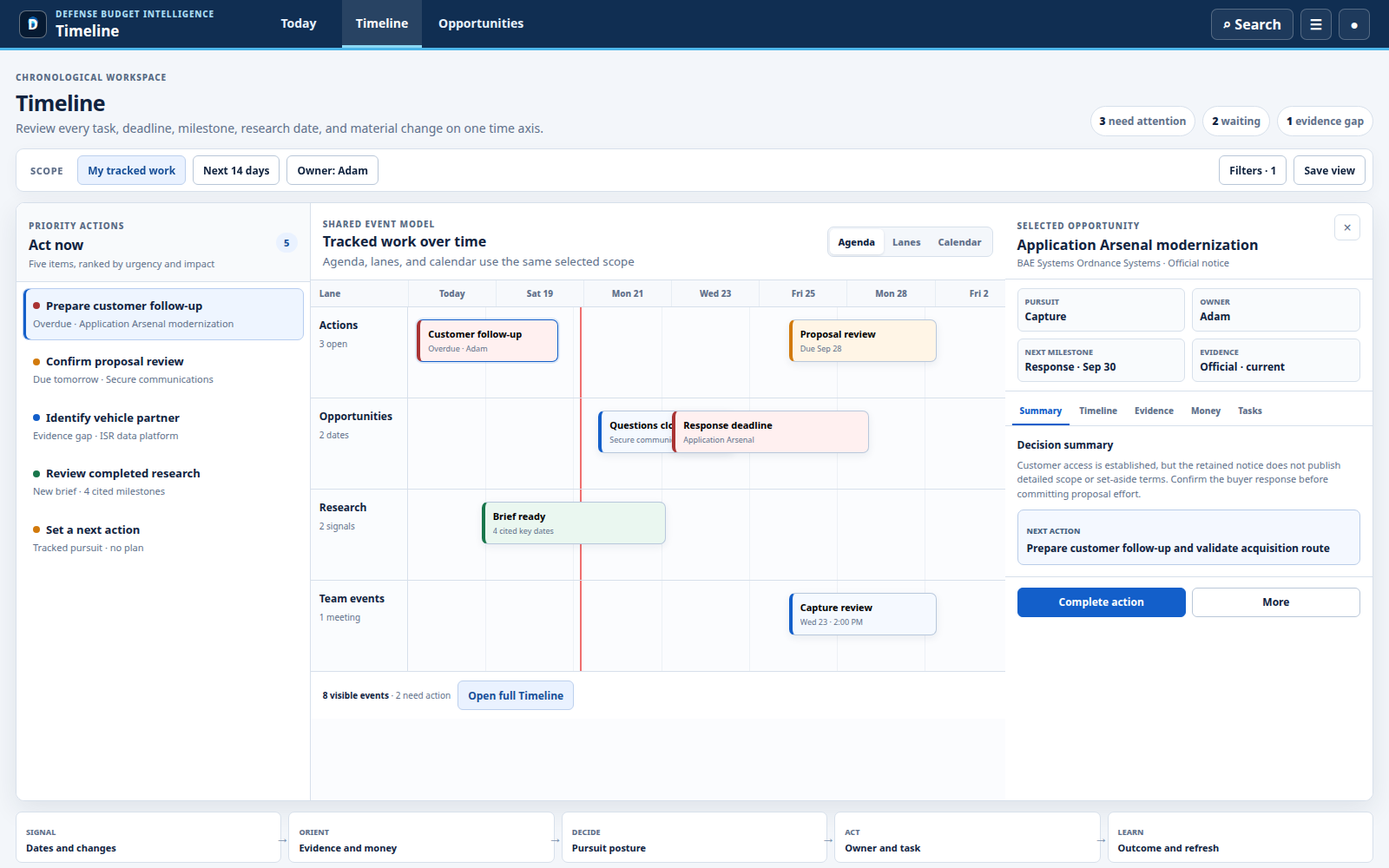
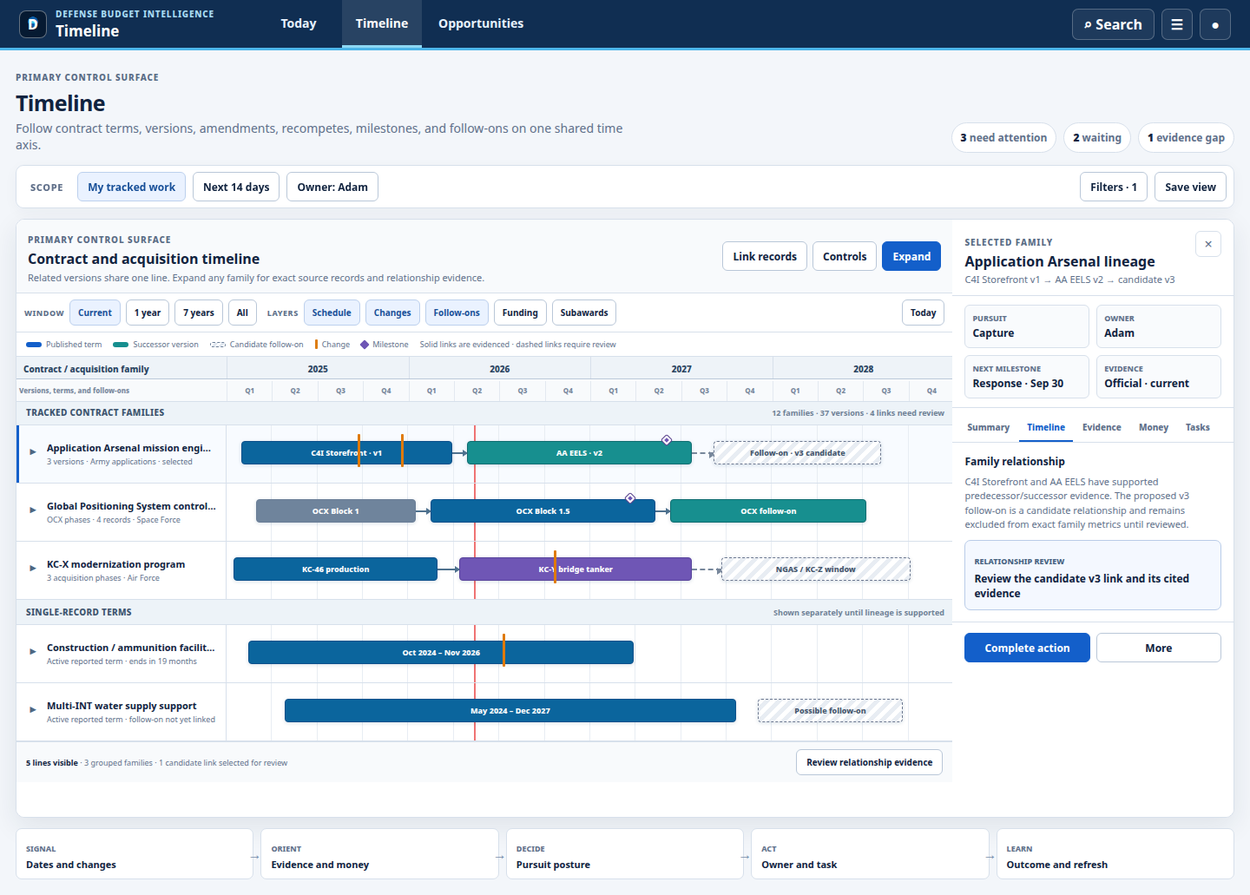
docs: make family timeline the primary control surface

diff --git a/docs/design/interaction-architecture-v2-prototype.html b/docs/design/interaction-architecture-v2-prototype.html
@@ -22,6 +22,8 @@
       --red-soft: #fff0f0;
       --green: #18764b;
       --green-soft: #eaf7f0;
+      --teal: #178f8f;
+      --purple: #6f56b5;
       --shadow: 0 10px 30px rgba(22, 42, 70, .09);
       font-family: Inter, ui-sans-serif, system-ui, -apple-system, BlinkMacSystemFont, "Segoe UI", sans-serif;
       color: var(--ink);
@@ -133,6 +135,62 @@
     .dock-actions .control { flex: 1; }
     .timeline-footer { padding: 10px 14px; display: flex; align-items: center; gap: 8px; color: var(--muted); background: white; font-size: 10px; }
     .timeline-footer strong { color: var(--ink); }
+    .family-timeline { display: none; min-width: 0; background: white; }
+    body.screen-timeline .layout { grid-template-columns: minmax(0, 1fr) minmax(310px, .3fr); }
+    body.screen-timeline .column, body.screen-timeline .timeline, body.screen-timeline .queue { display: none; }
+    body.screen-timeline .family-timeline { display: block; }
+    .family-head { min-height: 62px; padding: 10px 13px; display: flex; align-items: center; gap: 11px; border-bottom: 1px solid var(--line); background: #f8fafc; }
+    .family-head h2 { margin: 2px 0 0; font-size: 16px; }
+    .family-head p { margin: 3px 0 0; color: var(--muted); font-size: 11px; }
+    .family-head__actions { margin-left: auto; display: flex; gap: 6px; }
+    .family-controls { padding: 7px 9px; display: flex; align-items: center; gap: 6px; border-bottom: 1px solid var(--line); overflow-x: auto; background: white; }
+    .family-controls__label { margin-left: 6px; color: var(--muted); font-size: 9px; font-weight: 850; letter-spacing: .06em; text-transform: uppercase; }
+    .family-controls__label:first-child { margin-left: 0; }
+    .family-controls .control { min-height: 30px; padding: 0 9px; font-size: 10px; white-space: nowrap; }
+    .family-legend { padding: 7px 11px; display: flex; align-items: center; gap: 13px; border-bottom: 1px solid var(--line); color: var(--muted); font-size: 9px; overflow-x: auto; white-space: nowrap; }
+    .legend-key { display: inline-flex; align-items: center; gap: 5px; }
+    .legend-swatch { width: 18px; height: 6px; border-radius: 999px; background: var(--blue); }
+    .legend-swatch.is-potential { border: 1px dashed #6b7e97; background: repeating-linear-gradient(135deg, #fff 0 3px, #dfe6ee 3px 6px); }
+    .legend-swatch.is-change { width: 3px; height: 11px; border-radius: 1px; background: #dd7d12; }
+    .legend-swatch.is-milestone { width: 8px; height: 8px; transform: rotate(45deg); border-radius: 1px; background: var(--purple); }
+    .family-scroll { overflow: auto; max-height: 590px; }
+    .family-canvas { position: relative; min-width: 1080px; }
+    .family-year-axis { display: grid; grid-template-columns: 242px repeat(4, minmax(190px, 1fr)); position: sticky; top: 0; z-index: 5; border-bottom: 1px solid var(--line-strong); background: #eef3f8; }
+    .family-year-axis > div { padding: 7px 8px 4px; border-left: 1px solid var(--line); color: #29435f; font-size: 10px; font-weight: 850; text-align: center; }
+    .family-year-axis > div:first-child { border-left: 0; text-align: left; }
+    .family-quarter-axis { display: grid; grid-template-columns: 242px repeat(16, minmax(47.5px, 1fr)); position: sticky; top: 28px; z-index: 5; border-bottom: 1px solid var(--line); background: #f8fafc; }
+    .family-quarter-axis > div { min-height: 23px; padding: 5px 3px; border-left: 1px solid #e3e9f0; color: #78889d; font-size: 8px; font-weight: 800; text-align: center; }
+    .family-quarter-axis > div:first-child { border-left: 0; text-align: left; }
+    .family-group { padding: 7px 11px; display: flex; align-items: center; border-bottom: 1px solid var(--line); color: #3c536d; background: #edf3f8; font-size: 10px; font-weight: 850; letter-spacing: .03em; text-transform: uppercase; }
+    .family-group span:last-child { margin-left: auto; color: #6d8095; font-size: 9px; font-weight: 750; letter-spacing: 0; text-transform: none; }
+    .family-row { display: grid; grid-template-columns: 242px minmax(760px, 1fr); min-height: 66px; border-bottom: 1px solid var(--line); background: white; }
+    .family-row:hover, .family-row.is-selected { background: #f8fbff; }
+    .family-row.is-selected { box-shadow: inset 3px 0 0 var(--blue); }
+    .family-identity { padding: 9px 10px; display: grid; grid-template-columns: 18px minmax(0, 1fr); gap: 7px; align-content: center; border-right: 1px solid var(--line); }
+    .family-toggle { width: 18px; height: 22px; padding: 0; border: 0; color: #4e6782; background: transparent; font-size: 13px; font-weight: 900; }
+    .family-identity strong { display: block; overflow: hidden; font-size: 11px; text-overflow: ellipsis; white-space: nowrap; }
+    .family-identity small { display: block; margin-top: 3px; color: var(--muted); font-size: 9px; line-height: 1.3; }
+    .family-track { position: relative; min-height: 66px; background: repeating-linear-gradient(90deg, transparent 0 calc(6.25% - 1px), #e8edf3 calc(6.25% - 1px) 6.25%); }
+    .family-track::after { content: ""; position: absolute; z-index: 0; top: 0; bottom: 0; left: 34%; width: 2px; background: #ef7373; }
+    .family-bar { position: absolute; z-index: 2; top: 18px; height: 27px; padding: 0 8px; display: flex; align-items: center; justify-content: center; border: 1px solid #0b4f8b; border-radius: 4px; color: white; background: #0b659d; box-shadow: 0 1px 4px rgba(15,64,102,.16); overflow: hidden; font-size: 9px; font-weight: 850; text-overflow: ellipsis; white-space: nowrap; }
+    .family-bar.is-v2 { border-color: #0f6d70; background: var(--teal); }
+    .family-bar.is-v3 { border: 1px dashed #6c7890; color: #44556c; background: repeating-linear-gradient(135deg, #fff 0 5px, #e8edf3 5px 10px); }
+    .family-bar.is-purple { border-color: #58439b; background: var(--purple); }
+    .family-bar.is-muted { border-color: #6b7e97; background: #6f849c; }
+    .family-link { position: absolute; z-index: 3; top: 31px; height: 2px; background: #4e718e; }
+    .family-link::after { content: ""; position: absolute; right: -1px; top: -3px; border-top: 4px solid transparent; border-bottom: 4px solid transparent; border-left: 6px solid #4e718e; }
+    .family-link.is-candidate { height: 0; border-top: 2px dashed #77879b; background: transparent; }
+    .family-link.is-candidate::after { border-left-color: #77879b; }
+    .family-marker { position: absolute; z-index: 4; top: 13px; width: 8px; height: 8px; transform: rotate(45deg); border: 2px solid white; border-radius: 1px; background: var(--purple); box-shadow: 0 0 0 1px #5a438f; }
+    .family-marker.is-change { top: 10px; width: 3px; height: 38px; transform: none; border: 0; border-radius: 1px; background: #df7a0a; box-shadow: none; }
+    .family-child { display: none; grid-template-columns: 242px minmax(760px, 1fr); min-height: 46px; border-bottom: 1px solid #e7ecf2; background: #fbfcfe; }
+    .family-child.is-visible { display: grid; }
+    .family-child .family-identity { padding-left: 34px; grid-template-columns: 1fr; }
+    .family-child .family-track { min-height: 46px; }
+    .family-child .family-bar { top: 10px; height: 23px; opacity: .9; }
+    .family-summary { padding: 8px 11px; display: flex; align-items: center; gap: 10px; border-top: 1px solid var(--line); color: var(--muted); background: #f8fafc; font-size: 9px; }
+    .family-summary strong { color: var(--ink); }
+    .family-summary .control { margin-left: auto; min-height: 30px; font-size: 10px; }
     .queue { display: none; min-width: 0; background: white; }
     body.screen-opportunities .layout { grid-template-columns: minmax(0, 1fr) minmax(320px, .42fr); }
     body.screen-opportunities .column, body.screen-opportunities .timeline { display: none; }
@@ -203,6 +261,14 @@
       .dock-actions { position: sticky; bottom: 0; background: white; }
       .flow-map { grid-template-columns: 1fr; }
       .flow-step::after { content: "↓"; right: auto; left: 50%; top: auto; bottom: -15px; transform: translateX(-50%); }
+      body.screen-timeline .layout { display: flex; }
+      body.screen-timeline .family-timeline { order: 1; border: 1px solid var(--line); border-radius: 9px; overflow: hidden; }
+      body.screen-timeline .dock { order: 2; }
+      .family-head { align-items: start; }
+      .family-head p, .family-head__actions .control:not(.is-primary) { display: none; }
+      .family-controls { padding: 6px; }
+      .family-legend { padding: 7px 8px; }
+      .family-scroll { max-height: 480px; }
     }
   </style>
 </head>
@@ -259,6 +325,59 @@
             <footer class="timeline-footer"><span><strong>8 visible events</strong> · 2 need action</span><button class="control is-soft" type="button" data-screen-jump="timeline">Open full Timeline</button></footer>
           </section>
 
+          <section class="family-timeline" aria-label="Family timeline">
+            <header class="family-head">
+              <div><span class="eyebrow">Primary control surface</span><h2>Contract and acquisition timeline</h2><p>Related versions share one line. Expand any family for exact source records and relationship evidence.</p></div>
+              <div class="family-head__actions"><button class="control" type="button">Link records</button><button class="control" type="button">Controls</button><button class="control is-primary" type="button">Expand</button></div>
+            </header>
+            <div class="family-controls" aria-label="Timeline controls">
+              <span class="family-controls__label">Window</span>
+              <button class="control is-soft" type="button">Current</button><button class="control" type="button">1 year</button><button class="control" type="button">7 years</button><button class="control" type="button">All</button>
+              <span class="family-controls__label">Layers</span>
+              <button class="control is-soft" type="button">Schedule</button><button class="control is-soft" type="button">Changes</button><button class="control is-soft" type="button">Follow-ons</button><button class="control" type="button">Funding</button><button class="control" type="button">Subawards</button>
+              <span class="scope-spacer"></span><button class="control" type="button">Today</button>
+            </div>
+            <div class="family-legend" aria-label="Timeline legend">
+              <span class="legend-key"><span class="legend-swatch"></span> Published term</span>
+              <span class="legend-key"><span class="legend-swatch" style="background:var(--teal)"></span> Successor version</span>
+              <span class="legend-key"><span class="legend-swatch is-potential"></span> Candidate follow-on</span>
+              <span class="legend-key"><span class="legend-swatch is-change"></span> Change</span>
+              <span class="legend-key"><span class="legend-swatch is-milestone"></span> Milestone</span>
+              <span>Solid links are evidenced · dashed links require review</span>
+            </div>
+            <div class="family-scroll">
+              <div class="family-canvas">
+                <div class="family-year-axis"><div>Contract / acquisition family</div><div>2025</div><div>2026</div><div>2027</div><div>2028</div></div>
+                <div class="family-quarter-axis"><div>Versions, terms, and follow-ons</div><div>Q1</div><div>Q2</div><div>Q3</div><div>Q4</div><div>Q1</div><div>Q2</div><div>Q3</div><div>Q4</div><div>Q1</div><div>Q2</div><div>Q3</div><div>Q4</div><div>Q1</div><div>Q2</div><div>Q3</div><div>Q4</div></div>
+
+                <div class="family-group"><span>Tracked contract families</span><span>12 families · 37 versions · 4 links need review</span></div>
+                <div class="family-row is-selected" data-family="arsenal">
+                  <div class="family-identity"><button class="family-toggle" type="button" data-family-toggle="arsenal" aria-label="Expand Application Arsenal family">▸</button><div><strong>Application Arsenal mission engineering</strong><small>3 versions · Army applications · selected</small></div></div>
+                  <div class="family-track">
+                    <button class="family-bar" type="button" style="left:2%;width:29%" data-family-select="arsenal">C4I Storefront · v1</button>
+                    <span class="family-link" style="left:31%;width:2%"></span>
+                    <button class="family-bar is-v2" type="button" style="left:33%;width:31%" data-family-select="arsenal">AA EELS · v2</button>
+                    <span class="family-link is-candidate" style="left:64%;width:3%"></span>
+                    <button class="family-bar is-v3" type="button" style="left:67%;width:23%" data-family-select="arsenal">Follow-on · v3 candidate</button>
+                    <span class="family-marker is-change" style="left:18%" title="Modification IV"></span><span class="family-marker is-change" style="left:24%" title="Modification V"></span><span class="family-marker" style="left:60%" title="Transition milestone"></span>
+                  </div>
+                </div>
+                <div class="family-child" data-family-child="arsenal"><div class="family-identity"><div><strong>C4I Storefront</strong><small>v1 · exact predecessor link</small></div></div><div class="family-track"><button class="family-bar" type="button" style="left:2%;width:29%">Base + modifications I–VI</button></div></div>
+                <div class="family-child" data-family-child="arsenal"><div class="family-identity"><div><strong>Application Arsenal EELS</strong><small>v2 · official successor evidence</small></div></div><div class="family-track"><button class="family-bar is-v2" type="button" style="left:33%;width:31%">AA EELS v2</button></div></div>
+                <div class="family-child" data-family-child="arsenal"><div class="family-identity"><div><strong>Application Arsenal follow-on</strong><small>v3 · candidate relationship · review required</small></div></div><div class="family-track"><button class="family-bar is-v3" type="button" style="left:67%;width:23%">Potential v3 window</button></div></div>
+
+                <div class="family-row" data-family="gps"><div class="family-identity"><button class="family-toggle" type="button" data-family-toggle="gps" aria-label="Expand GPS family">▸</button><div><strong>Global Positioning System control segment</strong><small>OCX phases · 4 records · Space Force</small></div></div><div class="family-track"><button class="family-bar is-muted" type="button" style="left:4%;width:22%">OCX Block 1</button><span class="family-link" style="left:26%;width:2%"></span><button class="family-bar" type="button" style="left:28%;width:31%">OCX Block 1.5</button><span class="family-link" style="left:59%;width:2%"></span><button class="family-bar is-v2" type="button" style="left:61%;width:27%">OCX follow-on</button><span class="family-marker" style="left:55%"></span></div></div>
+
+                <div class="family-row" data-family="kc"><div class="family-identity"><button class="family-toggle" type="button" data-family-toggle="kc" aria-label="Expand tanker family">▸</button><div><strong>KC-X modernization program</strong><small>3 acquisition phases · Air Force</small></div></div><div class="family-track"><button class="family-bar" type="button" style="left:1%;width:28%">KC-46 production</button><span class="family-link" style="left:29%;width:3%"></span><button class="family-bar is-purple" type="button" style="left:32%;width:32%">KC-Y bridge tanker</button><span class="family-link is-candidate" style="left:64%;width:4%"></span><button class="family-bar is-v3" type="button" style="left:68%;width:26%">NGAS / KC-Z window</button><span class="family-marker is-change" style="left:45%"></span></div></div>
+
+                <div class="family-group"><span>Single-record terms</span><span>Shown separately until lineage is supported</span></div>
+                <div class="family-row"><div class="family-identity"><button class="family-toggle" type="button" aria-label="Expand record">▸</button><div><strong>Construction / ammunition facilities</strong><small>Active reported term · ends in 19 months</small></div></div><div class="family-track"><button class="family-bar" type="button" style="left:3%;width:53%">Oct 2024 – Nov 2026</button><span class="family-marker is-change" style="left:38%"></span></div></div>
+                <div class="family-row"><div class="family-identity"><button class="family-toggle" type="button" aria-label="Expand record">▸</button><div><strong>Multi-INT water supply support</strong><small>Active reported term · follow-on not yet linked</small></div></div><div class="family-track"><button class="family-bar" type="button" style="left:8%;width:62%">May 2024 – Dec 2027</button><button class="family-bar is-v3" type="button" style="left:73%;width:20%">Possible follow-on</button></div></div>
+              </div>
+            </div>
+            <footer class="family-summary"><span><strong>5 lines visible</strong> · 3 grouped families · 1 candidate link selected for review</span><button class="control" type="button">Review relationship evidence</button></footer>
+          </section>
+
           <section class="queue">
             <header class="queue-head"><div><span class="eyebrow">Review queue</span><h2>Best-fit opportunities</h2><p>Ranked by fit, urgency, and evidence quality</p></div><input class="queue-search" aria-label="Search opportunities" value="" placeholder="Search 888 opportunities"></header>
             <table class="queue-table">
@@ -274,10 +393,10 @@
           </section>
 
           <aside class="dock">
-            <header class="dock-head"><div class="dock-head__row"><div><span class="eyebrow">Selected opportunity</span><h2>Application Arsenal modernization</h2><p>BAE Systems Ordnance Systems · Official notice</p></div><button class="close" type="button" aria-label="Close">×</button></div></header>
+            <header class="dock-head"><div class="dock-head__row"><div><span class="eyebrow" id="dock-eyebrow">Selected opportunity</span><h2 id="dock-title">Application Arsenal modernization</h2><p id="dock-subtitle">BAE Systems Ordnance Systems · Official notice</p></div><button class="close" type="button" aria-label="Close">×</button></div></header>
             <div class="dock-status"><div class="fact"><small>Pursuit</small><strong>Capture</strong></div><div class="fact"><small>Owner</small><strong>Adam</strong></div><div class="fact"><small>Next milestone</small><strong>Response · Sep 30</strong></div><div class="fact"><small>Evidence</small><strong>Official · current</strong></div></div>
-            <nav class="dock-tabs" aria-label="Selected record"><button class="is-active" type="button">Summary</button><button type="button">Timeline</button><button type="button">Evidence</button><button type="button">Money</button><button type="button">Tasks</button></nav>
-            <div class="dock-body"><h3>Decision summary</h3><p>Customer access is established, but the retained notice does not publish detailed scope or set-aside terms. Confirm the buyer response before committing proposal effort.</p><div class="next-action"><small>Next action</small><strong>Prepare customer follow-up and validate acquisition route</strong></div></div>
+            <nav class="dock-tabs" aria-label="Selected record"><button class="is-active" type="button" data-dock-tab="Summary">Summary</button><button type="button" data-dock-tab="Timeline">Timeline</button><button type="button" data-dock-tab="Evidence">Evidence</button><button type="button" data-dock-tab="Money">Money</button><button type="button" data-dock-tab="Tasks">Tasks</button></nav>
+            <div class="dock-body"><h3 id="dock-section-title">Decision summary</h3><p id="dock-copy">Customer access is established, but the retained notice does not publish detailed scope or set-aside terms. Confirm the buyer response before committing proposal effort.</p><div class="next-action"><small id="dock-action-label">Next action</small><strong id="dock-action">Prepare customer follow-up and validate acquisition route</strong></div></div>
             <div class="dock-actions"><button class="control is-primary" type="button">Complete action</button><button class="control" type="button">More</button></div>
           </aside>
         </section>
@@ -295,7 +414,7 @@
   <script>
     const copy = {
       today: ["Workspace focus", "Good afternoon, Adam", "Start with the work that needs a decision, then move through time without losing the selected opportunity.", "Today", "Forward view", "Next 14 days", "Tasks, opportunity dates, research, and team events"],
-      timeline: ["Chronological workspace", "Timeline", "Review every task, deadline, milestone, research date, and material change on one time axis.", "Timeline", "Shared event model", "Tracked work over time", "Agenda, lanes, and calendar use the same selected scope"],
+      timeline: ["Primary control surface", "Timeline", "Follow contract terms, versions, amendments, recompetes, milestones, and follow-ons on one shared time axis.", "Timeline", "Family timeline", "Contract and acquisition lineage", "Related versions share one line; every source record remains inspectable"],
       opportunities: ["Opportunity intelligence", "Opportunities", "Qualify records in one stable queue, then inspect and act through the shared context dock.", "Opportunities", "Selected portfolio", "Opportunity decision horizon", "Deadlines, tasks, and evidence stay visible while reviewing records"]
     };
     function setScreen(screen) {
@@ -310,12 +429,30 @@
       document.getElementById("timeline-title").textContent = data[5];
       document.getElementById("timeline-subtitle").textContent = data[6];
       document.body.className = `screen-${screen}`;
+      document.querySelectorAll("[data-dock-tab]").forEach((button) => button.classList.toggle("is-active", button.dataset.dockTab === (screen === "timeline" ? "Timeline" : "Summary")));
+      document.getElementById("dock-eyebrow").textContent = screen === "timeline" ? "Selected family" : "Selected opportunity";
+      document.getElementById("dock-title").textContent = screen === "timeline" ? "Application Arsenal lineage" : "Application Arsenal modernization";
+      document.getElementById("dock-subtitle").textContent = screen === "timeline" ? "C4I Storefront v1 → AA EELS v2 → candidate v3" : "BAE Systems Ordnance Systems · Official notice";
+      document.getElementById("dock-section-title").textContent = screen === "timeline" ? "Family relationship" : "Decision summary";
+      document.getElementById("dock-copy").textContent = screen === "timeline" ? "C4I Storefront and AA EELS have supported predecessor/successor evidence. The proposed v3 follow-on is a candidate relationship and remains excluded from exact family metrics until reviewed." : "Customer access is established, but the retained notice does not publish detailed scope or set-aside terms. Confirm the buyer response before committing proposal effort.";
+      document.getElementById("dock-action-label").textContent = screen === "timeline" ? "Relationship review" : "Next action";
+      document.getElementById("dock-action").textContent = screen === "timeline" ? "Review the candidate v3 link and its cited evidence" : "Prepare customer follow-up and validate acquisition route";
       const url = new URL(window.location.href); url.searchParams.set("screen", screen); history.replaceState(null, "", url);
     }
     document.querySelectorAll("[data-screen-button]").forEach((button) => button.addEventListener("click", () => setScreen(button.dataset.screenButton)));
     document.querySelectorAll("[data-screen-jump]").forEach((button) => button.addEventListener("click", () => setScreen(button.dataset.screenJump)));
     document.querySelectorAll("[data-select]").forEach((button) => button.addEventListener("click", () => {
       document.querySelectorAll("[data-select]").forEach((item) => item.classList.toggle("is-selected", item.dataset.select === button.dataset.select));
+    }));
+    document.querySelectorAll("[data-family-toggle]").forEach((button) => button.addEventListener("click", () => {
+      const family = button.dataset.familyToggle;
+      const children = [...document.querySelectorAll(`[data-family-child="${family}"]`)];
+      const visible = children.some((child) => child.classList.contains("is-visible"));
+      children.forEach((child) => child.classList.toggle("is-visible", !visible));
+      button.textContent = visible ? "▸" : "▾";
+    }));
+    document.querySelectorAll("[data-family-select]").forEach((button) => button.addEventListener("click", () => {
+      document.querySelectorAll("[data-family]").forEach((row) => row.classList.toggle("is-selected", row.dataset.family === button.dataset.familySelect));
     }));
     setScreen(new URL(window.location.href).searchParams.get("screen") || "today");
   </script>

diff --git a/docs/design/interaction-architecture-v2.md b/docs/design/interaction-architecture-v2.md
@@ -7,6 +7,7 @@ Prototype artifacts:
 - [Interactive HTML prototype](./interaction-architecture-v2-prototype.html)
 - [Today desktop](./screenshots/interaction-v2-today-desktop.png)
 - [Timeline desktop](./screenshots/interaction-v2-timeline-desktop.png)
+- [Timeline mobile](./screenshots/interaction-v2-timeline-mobile.png)
 - [Opportunities desktop](./screenshots/interaction-v2-opportunities-desktop.png)
 - [Today mobile](./screenshots/interaction-v2-today-mobile.png)
 - [Opportunities mobile](./screenshots/interaction-v2-opportunities-mobile.png)
@@ -169,25 +170,75 @@ confidence
 
 The first release can derive this model client-side from existing persisted records. No database migration is required.
 
+### Canonical timeline control surface
+
+The primary Timeline is the dense horizontal range-bar control surface already proven in DBI, not a replacement agenda widget. It is the canonical place to understand duration, overlap, versions, amendments, recompetes, follow-ons, milestones, and gaps across tracked work.
+
+Its default grammar is:
+
+- a fixed identity column on the left
+- a shared multi-year quarter axis on the right
+- one collapsed row per contract, acquisition, or program family
+- one or more labeled range segments on that row for versions, phases, amendments, or successor efforts
+- exact milestone and change markers over the ranges
+- a Today line, published-data boundary, and explicit uncertain windows
+- an expandable child-row state for the exact underlying records and evidence
+
+This surface remains directly reachable from primary navigation. Today carries a compact derivative of the same model, and the selected-record dock carries a record-scoped derivative. They do not become separate timeline implementations.
+
+### Family and version model
+
+The derived `TimelineFamily` contract groups related records without destroying source identity:
+
+```text
+familyId
+canonicalTitle
+familyType: contract | acquisition | program | vehicle | award
+memberIds[]
+segments[]:
+  recordId
+  label
+  versionLabel
+  startAt
+  endAt
+  status
+  relationToPrevious: amends | succeeds | recompetes | renames | continues | potential
+  relationConfidence: exact | supported | candidate
+  sourceIds[]
+unresolvedCandidates[]
+```
+
+Examples include a single family row for `Application Arsenal: C4I Storefront (v1) -> AA EELS (v2) -> follow-on (v3)` or a contract line containing modifications I through VI.
+
+Grouping precedence is fail-closed:
+
+1. exact typed predecessor, successor, amendment, modification, vehicle, or task-order relationships
+2. official identifier lineage and cited renames
+3. supported temporal continuity across the same buyer, capability, scope, and contract family
+4. AI-proposed candidate relationships held for review
+
+Only exact and supported links enter the collapsed family line automatically. Candidate links remain dashed, labeled, and reviewable. Every segment still opens its original record and evidence.
+
 ### Timeline modes
 
+- **Families**: default multi-year range-bar view grouped by contract/program lineage
 - **Agenda**: what requires attention in date order
-- **Lanes**: tracked pursuits across time
 - **Calendar**: scheduled events and deadlines
 
-Agenda is the default. Lanes and Calendar are alternate views of the same event set, not separate products.
+Families, Agenda, and Calendar are alternate views of the same normalized event and family contracts, not separate products.
 
-### Lanes
+### Timeline layers
 
-Default lanes:
+Layers enrich the family rows without replacing them:
 
-- Actions
-- Opportunities
-- Research and evidence
-- Awards and recompetes
-- Team events
+- Schedule and published windows
+- Changes and modifications
+- Follow-ons and successor candidates
+- Funding and obligations
+- Subawards and industrial-base activity
+- Milestones, research dates, and team actions
 
-Lanes can be collapsed, but they share one time axis and one selected-record context.
+The default view keeps only Schedule, Changes, and Follow-ons visible. Additional layers are progressive disclosures with their own legend and provenance.
 
 ### My Work timeline component
 
@@ -221,11 +272,11 @@ The full tracked table, completed work, and low-priority items remain behind dis
 Default content order:
 
 1. compact scope bar
-2. date navigator and mode switch
-3. shared chronological canvas
+2. window controls, layer controls, and family/agenda/calendar switch
+3. family-grouped horizontal range-bar canvas
 4. context dock on selection
 
-The full timeline removes the current wall of advanced configuration. Grouping, labels, feed selection, and field choices move into an Advanced view panel.
+The full Timeline preserves the existing scan-dense control surface while removing duplicate configuration owners. Family grouping, labels, relationship review, feed selection, and field choices live in one Advanced panel. Selecting a family, segment, milestone, or relationship opens the same shared context dock.
 
 ### Opportunities
 
@@ -284,8 +335,11 @@ Surface-specific filters remain namespaced but cannot silently survive a handoff
 
 - promote Timeline to primary navigation
 - add the unified event adapter
+- add the `TimelineFamily` adapter and exact/support/candidate relationship contract
+- preserve the dense multi-year range-bar surface as the default Families mode
+- render related versions, amendments, and follow-ons as labeled segments on one family row
+- add expandable child rows for exact underlying records
 - add Next 14 days to Today
-- preserve existing Capture Timeline behind the new agenda shell
 - add shared selection handoff between Today and Timeline
 
 ### Release 2: Shared context dock
@@ -302,15 +356,18 @@ Surface-specific filters remain namespaced but cannot silently survive a handoff
 
 ### Release 4: Advanced timeline
 
-- lanes and calendar modes
+- agenda and calendar modes
 - saved timeline views
 - batch planning and task creation from selected events
 - movement history and outcome feedback
+- assisted family-link review and merge/split controls
 
 ## 11. Acceptance criteria
 
 - A user can identify and act on the top item within 10 seconds of opening the product.
 - A user can move from a timeline signal to cited evidence and a task without losing selection.
+- Related contract/program versions can appear on one collapsed family line while every source record remains independently inspectable.
+- Candidate family relationships are never silently merged or presented as exact.
 - Today, Timeline, and Opportunities share one record dock and one action hierarchy.
 - Primary navigation contains no analytical implementation details.
 - Default surfaces show no more than one filter owner and one primary action per selected state.
